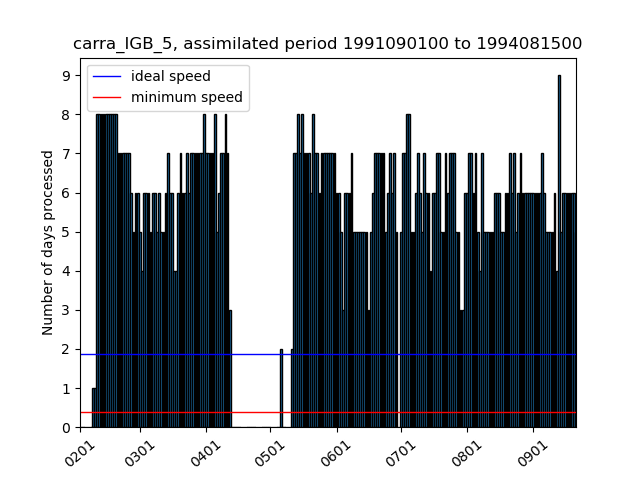
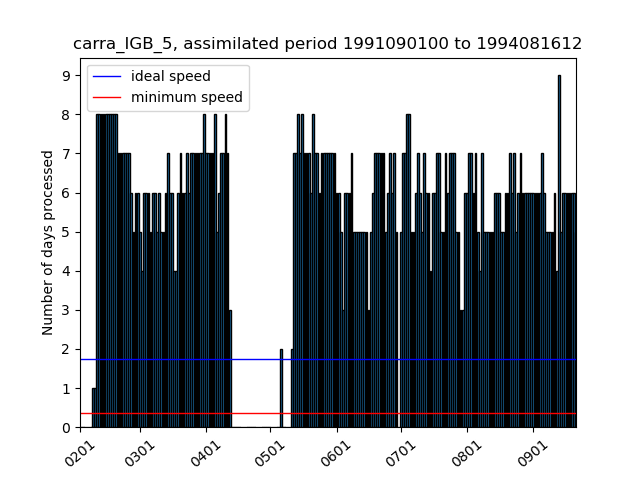
update repo

Changed region(s): [[0.125, 0.8438, 0.9062, 0.875], [0.125, 0.7188, 0.9062, 0.75], [0.8438, 0.0625, 0.9062, 0.125]]

diff --git a/current_state_sims.html b/current_state_sims.html
@@ -2,18 +2,18 @@
 <h1>Estimated completion dates and simulation speeds</h1>
 <p>Stream (production) completion date based on 30d (7d) moving avg speed</p>
 <p><a href="https://docs.google.com/document/d/1zDKAxuEXYnWWYzT3SZnZwY5WW8nodUMeYRjAGz46coc/edit#">Details of the calculation of the completion dates</a></p>
-<p>Last update: 2021/09/22 12:42:32 UTC</p>
+<p>Last update: 2021/09/22 18:43:56 UTC</p>
 <p>Total progress CARRA: 99.22% <a href="https://hirlam.org/portal/CARRA/Progress/GanntChart_CARRA.html"> (see detailed progress meter in Gantt chart) </a></p>
 <p>Total progress PANARCTIC: 90.91% </p>
 <p><a href="https://hirlam.org/portal/CARRA/Progress/waiting_times.html"> Queue waiting times for all streams</a></p>
 <p><a href="https://hirlam.org/portal/CARRA/Progress/mars_status.html"> MARS archive throughput </a></p>
 <html><table border="1"><tr><th>expId</th><th>Current assimilated date</th><th>End date of stream </th><th> Completion date</th><th> Avg. throughput (7d) </th> <th>Avg. throughput (30d) </th> <th> Remarks</tr>
-<tr bgcolor="#FFFFFF"><td>carra_NE_3</td><td>2021063000</td><td>2021063021</td><td>2021092212</td><td>(4.86) days/day</td><td>(3.63) days/day</td><td></tr>
-<tr bgcolor="#33FF38"><td>carra_NE_4</td><td>1992090100</td><td>1992083021</td><td>2021091701</td><td>(0.0) days/day</td><td>(0.37) days/day</td><td>Stream finished</tr>
-<tr bgcolor="#33FF38"><td>carra_NE_5</td><td>1994090100</td><td>1994083021</td><td>2021091805</td><td>(0.0) days/day</td><td>(0.47) days/day</td><td>Stream finished</tr>
-<tr bgcolor="#33FF38"><td>carra_NE_6</td><td>1997070100</td><td>1997063021</td><td>2021092208</td><td>(0.86) days/day</td><td>(5.63) days/day</td><td>Stream finished</tr>
-<tr bgcolor="#FFFFFF"><td>carra_IGB_3</td><td>2021063000</td><td>2021063021</td><td>2021092212</td><td>(5.43) days/day</td><td>(3.47) days/day</td><td></tr>
-<tr bgcolor="#33FF38"><td>carra_IGB_4</td><td>1992090100</td><td>1992083021</td><td>2021092122</td><td>(0.0) days/day</td><td>(3.37) days/day</td><td>Stream finished</tr>
-<tr bgcolor="#FFFFFF"><td>carra_IGB_5</td><td>1994081500</td><td>1994083021</td><td>2021092501</td><td>(5.86) days/day</td><td>(5.9) days/day</td><td></tr>
-<tr bgcolor="#FFA500"><td>carra_IGB_6</td><td>1996110900</td><td>1997063021</td><td>2021110105</td><td>(5.57) days/day</td><td>(5.87) days/day</td><td>Completion date after project end (20211031)</tr>
-<tr bgcolor="#FFFFFF"><td>carra_pan</td><td>2018071712</td><td>2018083121</td><td>2021100614</td><td>(3.0) days/day</td><td>(3.2) days/day</td><td></tr>
+<tr bgcolor="#FFFFFF"><td>carra_NE_3</td><td>2021063000</td><td>2021063021</td><td>2021092218</td><td>(4.86) days/day</td><td>(3.63) days/day</td><td></tr>
+<tr bgcolor="#33FF38"><td>carra_NE_4</td><td>1992090100</td><td>1992083021</td><td>2021091707</td><td>(0.0) days/day</td><td>(0.37) days/day</td><td>Stream finished</tr>
+<tr bgcolor="#33FF38"><td>carra_NE_5</td><td>1994090100</td><td>1994083021</td><td>2021091811</td><td>(0.0) days/day</td><td>(0.47) days/day</td><td>Stream finished</tr>
+<tr bgcolor="#33FF38"><td>carra_NE_6</td><td>1997070100</td><td>1997063021</td><td>2021092214</td><td>(0.86) days/day</td><td>(5.63) days/day</td><td>Stream finished</tr>
+<tr bgcolor="#FFFFFF"><td>carra_IGB_3</td><td>2021063000</td><td>2021063021</td><td>2021092218</td><td>(5.43) days/day</td><td>(3.47) days/day</td><td></tr>
+<tr bgcolor="#33FF38"><td>carra_IGB_4</td><td>1992090100</td><td>1992083021</td><td>2021092204</td><td>(0.0) days/day</td><td>(3.37) days/day</td><td>Stream finished</tr>
+<tr bgcolor="#FFFFFF"><td>carra_IGB_5</td><td>1994081612</td><td>1994083021</td><td>2021092503</td><td>(5.86) days/day</td><td>(5.9) days/day</td><td></tr>
+<tr bgcolor="#FFA500"><td>carra_IGB_6</td><td>1996111009</td><td>1997063021</td><td>2021110107</td><td>(5.57) days/day</td><td>(5.87) days/day</td><td>Completion date after project end (20211031)</tr>
+<tr bgcolor="#FFFFFF"><td>carra_pan</td><td>2018071803</td><td>2018083121</td><td>2021100612</td><td>(3.0) days/day</td><td>(3.2) days/day</td><td></tr>
